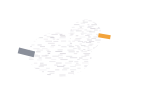
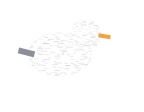
Fase 2: texturas do tema no palco (base fixa das fotografias, contêineres que quebram e empilham, tábuas e lajes de mármore); M1 com a arte do contêiner
Claude-Session: https://claude.ai/code/session_017desNJLabnbh98EwrZ9vQj

diff --git a/art/src/cenarios/f2_jogo.py b/art/src/cenarios/f2_jogo.py
@@ -11,7 +11,8 @@ import sys
 HERE = os.path.dirname(__file__)
 sys.path.insert(0, HERE)
 import f2_prancha as fp  # noqa: E402
-from f2_prancha import E, INK, W, H, fonte, grad, gaivota  # noqa: E402
+import math  # noqa: E402
+from f2_prancha import E, INK, W, H, T, R, PL, CONT, fonte, grad, gaivota, sign, conteiner  # noqa: E402
 from papel import rough  # noqa: E402
 from svg import doc, queue, render_all  # noqa: E402
 
@@ -37,6 +38,66 @@ def e2_longe():
 def e3_longe():
     """Destroços: manhã depois da tempestade, ilha distante, o navio partido ao fundo (moldura)."""
     return fp.c2_ceu() + fp.c2_navio_fundo()
+
+
+# ---------------------------------------------------------------- palco FIXO (o que é tile no .lvl; mundo, sem paralaxe)
+# Só a base que não quebra, nos mesmos lugares das fotografias (que já casam com os tiles do levels/cargueiro_perdido.lvl).
+# O que quebra (contêineres, tábuas, lajes) é peça do canteiro, desenhada pelo jogo.
+def e1_palco():
+    o = fp.balsa(70, 6 * T) + fp.balsa(22 * T, 7 * T)
+    o += R(14 * T, 11 * T + 20, 2 * T, fp.MAR1 - 11 * T, "#9a9488", 4, 2.0, dark="#7a7468")       # pilar de concreto
+    o += R(13 * T - 10, 11 * T, 4 * T + 20, 28, "#b9b2a4", 3, 1.6) + fp.zebra(13 * T - 10, 11 * T - 8, 4 * T + 20, 8)
+    for k in range(3):
+        o += E(13 * T + 20 + k * 100, 11 * T + 40, 16, 10, "#3a3a44", 0.8)   # pneus de atracação
+    o += fp.andaime(7 * T, 4 * T, 13 * T) + fp.andaime(21 * T, 4 * T, 13 * T)
+    o += R(28 * T, 1 * T, 26, 12 * T, "#e0a83a", 3, 1.6, dark="#b07a1e")                          # torre da grua da balsa
+    for k in range(11):
+        y = T + 20 + k * 64
+        o += f'<path d="M{28 * T},{y} l26,40 M{28 * T + 26},{y} l-26,40" stroke="#b07a1e" stroke-width="3"/>'
+    o += R(9 * T, 1 * T - 14, 20 * T, 20, "#e0a83a", 3, 1.4) + R(28 * T - 30, 1 * T - 60, 80, 46, "#cfd3da", 3, 1.2)
+    o += sign(23 * T, 13 * T - 60, "BOTA-ABAIXO", 170)
+    # escoras laranja das tábuas do nível 9 (sobre o pilar) e mão-francesa da tábua do nível 6
+    o += R(13 * T, 9 * T + 18, 12, 2 * T - 18, "#f08a3d", 2, 1.0, dark="#c06a2a") + R(17 * T - 12, 9 * T + 18, 12, 2 * T - 18, "#f08a3d", 2, 1.0, dark="#c06a2a")
+    o += f'<path d="M{7 * T},{6 * T + 130} L{5 * T + 20},{6 * T + 18}" stroke="#c06a2a" stroke-width="10" stroke-linecap="round"/>'
+    o += R(28 * T - 30, 6 * T + 18, 30, 14, "#b07a1e", 2, 0.8)
+    return o
+
+
+def e3_palco():
+    """Destroços: rochas (topo plano), convés quebrado encravado na rocha-arco, balsa e grua."""
+    o = ""
+    rx0, rx1, ry = fp.R2_ESQ
+    mx0, mx1, my = fp.R2_MEIO
+    bx, bw = fp.BALSA2
+    H2 = fp.MAR2
+    o += fp.rocha2([(rx0 - 40, H), (rx0 - 20, ry + 50), (rx0 + 10, ry), (rx1 - 10, ry), (rx1 + 30, ry + 60), (rx1 + 10, H)], rx0 + 10, rx1 - 10, ry, 3)
+    o += fp.rocha2([(mx0 - 30, H), (mx0 - 10, my + 50), (mx0 + 20, my), (mx1 - 20, my), (mx1 + 20, my + 60), (mx1 + 10, H)], mx0 + 20, mx1 - 20, my, 7)
+    o += f'<path d="M{mx0 + 60},{H} q{(mx1 - mx0 - 120) / 2},-150 {mx1 - mx0 - 120},0" fill="#174a5a"/>'
+    o += fp.balsa(bx, bw)
+    tx = bx + bw - 34
+    o += R(tx, fp.LANCA2, 26, 13 * T - fp.LANCA2, "#e0a83a", 3, 1.6, dark="#b07a1e")
+    for k in range(11):
+        y = fp.LANCA2 + 20 + k * 64
+        o += f'<path d="M{tx},{y} l26,40 M{tx + 26},{y} l-26,40" stroke="#b07a1e" stroke-width="3"/>'
+    o += R(3 * T, fp.LANCA2 - 14, tx - 3 * T + 40, 20, "#e0a83a", 3, 1.4) + R(tx - 30, fp.LANCA2 - 60, 80, 46, "#cfd3da", 3, 1.2)
+    o += f'<path d="M{tx + 13},{fp.LANCA2 - 60} L{3 * T + 20},{fp.LANCA2 - 14}" stroke="#b07a1e" stroke-width="3"/>'
+    o += f'<path d="M{rx0 + 24},{ry} q-26,-120 40,-230" stroke="#8a6b4f" stroke-width="16" fill="none"/>'   # coqueiro
+    for a in range(5):
+        ang = -2.7 + a * 0.5
+        o += f'<path d="M{rx0 + 64},{ry - 230} q{math.cos(ang) * 50},{math.sin(ang) * 26 - 26} {math.cos(ang) * 110},{math.sin(ang) * 56 + 20}" stroke="#4f9a52" stroke-width="14" fill="none" stroke-linecap="round"/>'
+    o += fp.caranguejo(mx0 + 120, my)
+    return o
+
+
+def e2_palco():
+    """Atlântida: os três pilares dourados (topo plano) e a grua submarina da equipe."""
+    return fp.pilar_ouro(1 * T, 6 * T, 12 * T) + fp.pilar_ouro(12 * T, 18 * T, 11 * T) + fp.pilar_ouro(24 * T, 29 * T, 12 * T) + fp.c3_grua()
+
+
+def cont(cor):
+    def f():
+        return conteiner(4, 4, 3 * T - 8, T - 8, cor, 0, True)
+    return f
 
 
 DEFS = {
@@ -95,6 +156,7 @@ SPRITES = {
     "agua_viva": (80, 110, agua_viva),
     "peixe_a": (64, 40, peixe("#f2a33a")),
     "peixe_b": (64, 40, peixe("#e8bc4a")),
+    **{f"cont_{i}": (3 * T, T, cont(c)) for i, c in enumerate(CONT)},
 }
 
 
@@ -103,6 +165,8 @@ def main():
     os.makedirs(SRC, exist_ok=True)
     for i, (name, fn) in enumerate([("e1_longe", e1_longe), ("e2_longe", e2_longe), ("e3_longe", e3_longe)]):
         queue(wrap(W, H, fn(), 41 + i, DEFS[name]), f"{SRC}/{name}.svg", f"{OUT}/{name}.png", W, H, 1)
+    for i, (name, fn) in enumerate([("e1_palco", e1_palco), ("e2_palco", e2_palco), ("e3_palco", e3_palco)]):
+        queue(wrap(W, H, fn(), 51 + i), f"{SRC}/{name}.svg", f"{OUT}/{name}.png", W, H, 1)
     for i, (name, (w, h, fn)) in enumerate(SPRITES.items()):
         queue(wrap(w, h, fn(), 61 + i), f"{SRC}/{name}.svg", f"{OUT}/{name}.png", w, h, 2)
     print("fase 2 (jogo):", render_all())

diff --git a/docs/BASTAO.md b/docs/BASTAO.md
@@ -43,11 +43,14 @@ Este quadro é o que permite outro chat continuar EXATAMENTE de onde o anterior 
         `modos.json demolicao.agua`, ganchos no `robot.gd` (agua_grav/agua_queda/agua_empurra + env_slow) + teste `--so=agua`
   - [ ] 2. M-perigos da cena 1 (M1–M3), um por commit, com teste — M1 contêiner despenca FEITO (`conteiner_cai`, `--so=m1`)
   - [ ] 3. M-perigos da cena 2a (M4 maré etc.) e 2b (M7 cúpula etc.) + M10 tubarão
-- **Próximo passo exato:** passo 2 — **M2 gancho balança** (Alto-Mar; `perigos_mecanismos.md`): tipo novo `gancho_balanca`
-  em `game/modes/mecanismos.gd` no molde do `conteiner_cai` (manifesto `cenas[alto_mar].mecanismos`, arco tracejado de aviso,
-  contêiner pendurado varre o arco e empurra, marretada inverte o sentido; golpe novo `mec_gancho` em `modos.json`
-  amassometro + nome em `robot.gd` last_cause) + teste `--so=m2` + quadro na vitrine `--cargueiro=DIR`. Depois M3 (onda na
-  balsa: usa `main.demo.agua.molhar(r)`). Pendente pequeno: som "agua" (respingo) não existe (Audio ignora).
+  - [x] (pedido do usuário, adiantado do bloco D) TEXTURAS DO TEMA: base fixa das fotos (`e1/e2/e3_palco`, tiles invisíveis
+        `sem_arte_de: 0`), contêineres como peça nova do canteiro (`conteineres` no manifesto, `conteiner_hp`), tábuas (Alto-Mar)
+        e lajes de mármore (Atlântida) no lugar de andaimes/pranchas; M1 usa a arte do contêiner. Captura `art/out/fase2/jogo/palco_tema.png`
+- **Próximo passo exato:** arte que ainda falta no tema (pedido do usuário: "adicionar as texturas de vez"): Destroços — o
+  pedaço do convés (nível 8), bote virado, jangada, rede de carga e contêiner içado das fotos (hoje são tábuas simples,
+  `pranchas` do manifesto); Atlântida — tambores, cabeça de estátua, colunas de mármore embaixo das lajes, concha, lustre.
+  Fonte: `c2_palco`/`c3_palco` em `art/src/cenarios/f2_prancha.py` (seções QUEBRA). Depois: M2 gancho balança (tipo novo
+  `gancho_balanca` no molde do `conteiner_cai`) e M3 onda na balsa (`main.demo.agua.molhar(r)`).
 - Decisões pendentes do usuário: nenhuma (água aprovada no A55; números ajustam jogando).
 
 ## AGUARDANDO USUÁRIO
